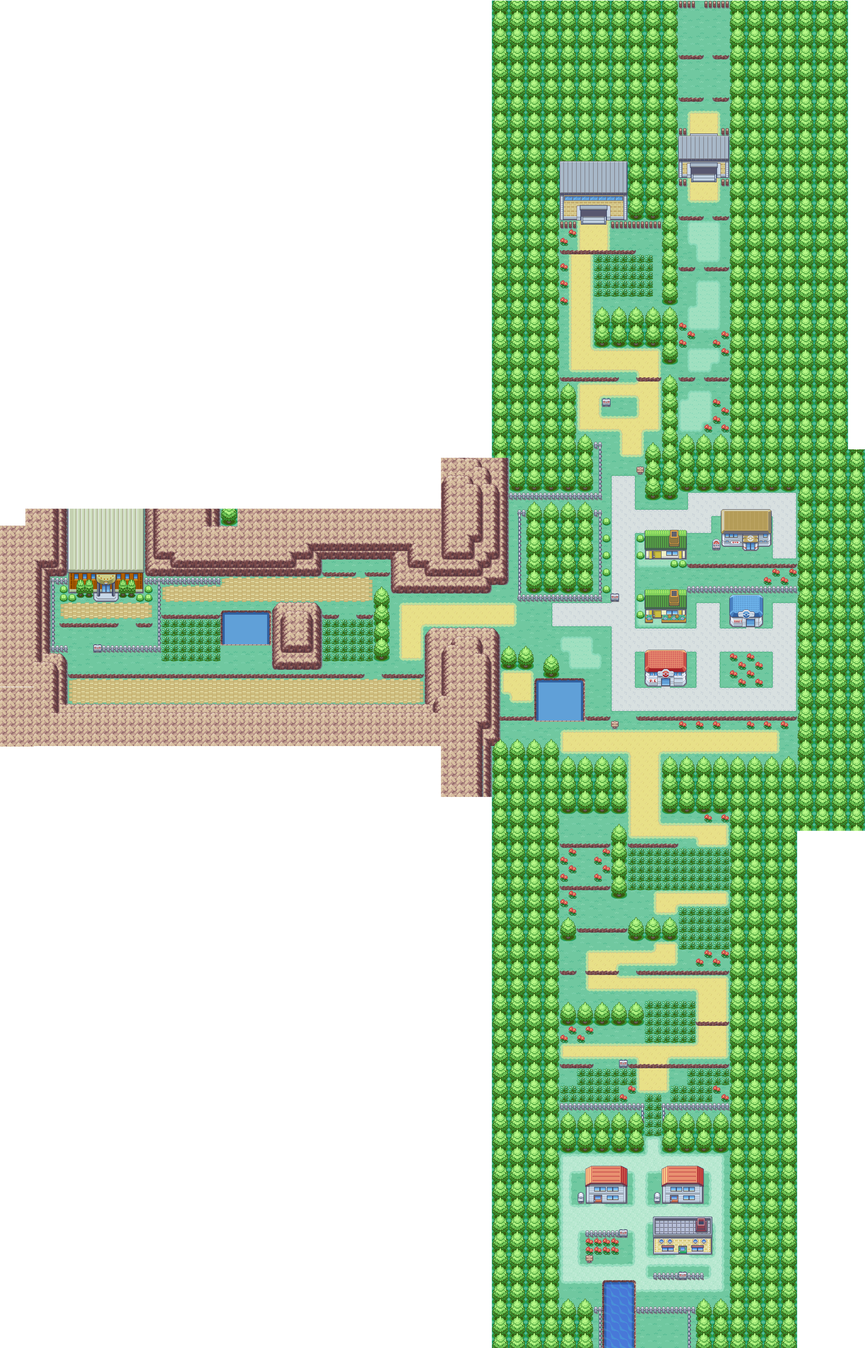
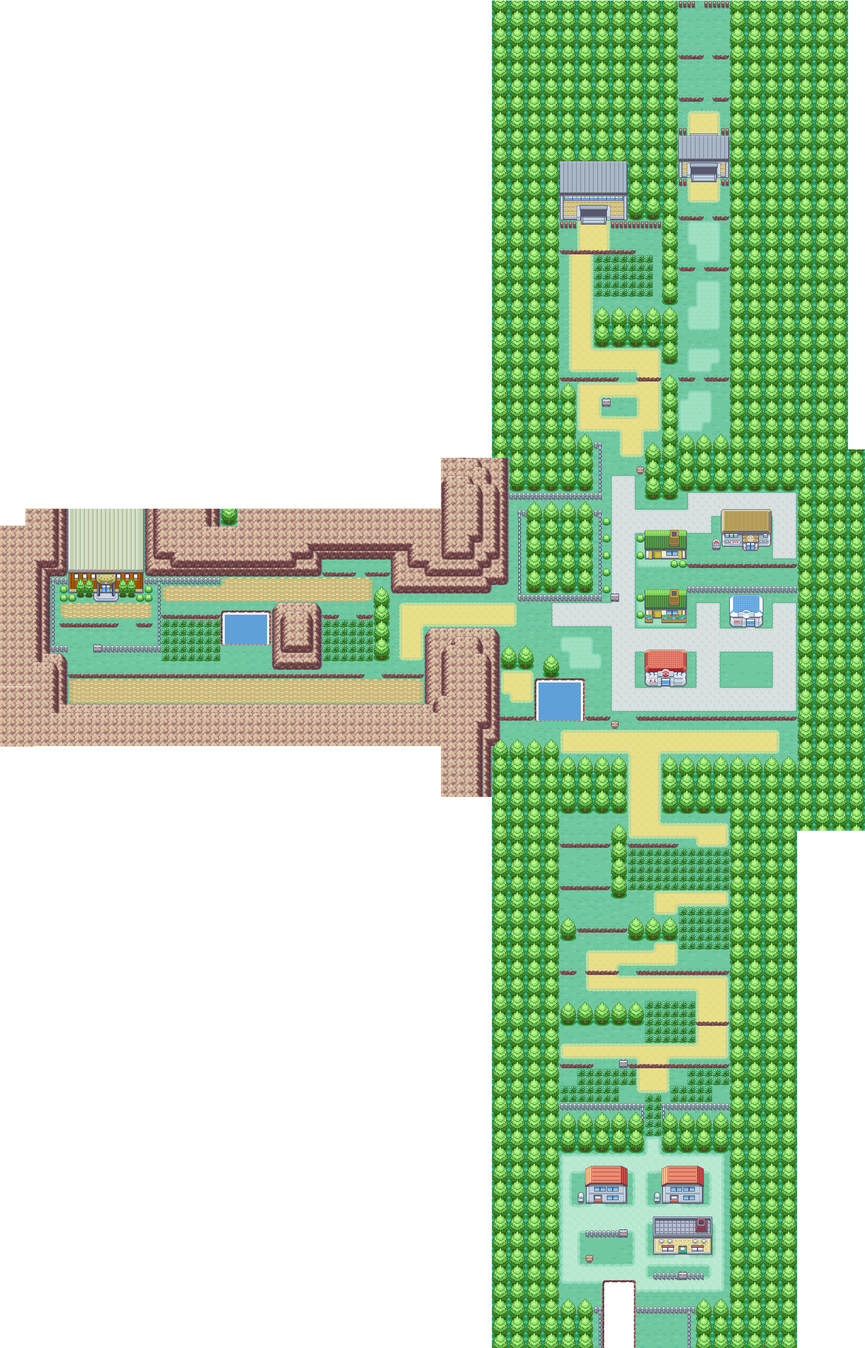
바다 애니메이션 타일 구현

diff --git a/PokemonFireRed/Pokemon/AnimatedSea.cpp b/PokemonFireRed/Pokemon/AnimatedSea.cpp
@@ -1,0 +1,42 @@
+#include "AnimatedSea.h"
+
+bool AnimatedSea::AnimationCreated = false;
+
+AnimatedSea::AnimatedSea() 
+{
+}
+
+AnimatedSea::~AnimatedSea() 
+{
+}
+
+void AnimatedSea::Init(int _Index)
+{
+	UWindowImage* Image = Renderer->GetImage();
+	if (false == AnimationCreated)
+	{
+		for (int i = 0; i < 8; i++)
+		{
+			std::vector<int> Indexs;
+			int Index = i;
+
+			for (int k = 0; k < 8; k++)
+			{
+				Indexs.push_back(Index);
+				Index = (Index + 1) % 8;
+			}
+
+			Renderer->CreateAnimation("AnimatedSea" + std::to_string(i), Image->GetName(), Indexs, 0.2f, true);
+		}
+
+	}
+	Renderer->SetTransform({ FVector::Zero, {Global::FloatTileSize, Global::FloatTileSize} });
+	Renderer->ChangeAnimation("AnimatedSea" + std::to_string(_Index));
+}
+
+void AnimatedSea::BeginPlay()
+{
+	Renderer = CreateImageRenderer(ERenderingOrder::BelowBackground);
+	Renderer->SetImage("AnimatedSea.png");
+}
+

diff --git a/PokemonFireRed/Pokemon/MapLevel.cpp b/PokemonFireRed/Pokemon/MapLevel.cpp
@@ -14,7 +14,7 @@
 #include "DialogueWindow.h"
 #include "MapNameWindow.h"
 #include "AnimatedFlower.h"
-
+#include "AnimatedSea.h"
 
 UMapLevel::UMapLevel()
 {
@@ -142,6 +142,20 @@ void UMapLevel::DrawFlowers(const std::vector<FTileVector>& _Points)
 	{
 		AnimatedFlower* Flower = SpawnActor<AnimatedFlower>();
 		Flower->SetActorLocation(Point.ToFVector());
+	}
+}
+
+void UMapLevel::DrawSeas(const std::vector<FTriple<int, int, int>> _Triples)
+{
+	for (const FTriple<int, int, int>& Triple : _Triples)
+	{
+		int PointX = Triple.first;
+		int PointY = Triple.second;
+		int Index = Triple.third;
+
+		AnimatedSea* Sea = SpawnActor<AnimatedSea>();
+		Sea->SetActorLocation(FTileVector(PointX, PointY).ToFVector());
+		Sea->Init(Index);
 	}
 }
 

diff --git a/PokemonFireRed/Pokemon/AnimatedSea.h b/PokemonFireRed/Pokemon/AnimatedSea.h
@@ -1,0 +1,26 @@
+#pragma once
+#include <EngineCore/Actor.h>
+#include "Global.h"
+
+class AnimatedSea : public AActor
+{
+public:
+	// constructor destructor
+	AnimatedSea();
+	~AnimatedSea();
+
+	// delete Function
+	AnimatedSea(const AnimatedSea& _Other) = delete;
+	AnimatedSea(AnimatedSea&& _Other) noexcept = delete;
+	AnimatedSea& operator=(const AnimatedSea& _Other) = delete;
+	AnimatedSea& operator=(AnimatedSea&& _Other) noexcept = delete;
+
+	void Init(int _Index);
+
+protected:
+	void BeginPlay() override;
+private:
+	UImageRenderer* Renderer = nullptr;
+	static bool AnimationCreated;
+};
+

diff --git a/PokemonFireRed/Pokemon/ExteriorPalletTownLevel.cpp b/PokemonFireRed/Pokemon/ExteriorPalletTownLevel.cpp
@@ -88,4 +88,15 @@ and POKéMON as data via PC.)"
 		{71, 146}, {71, 147},
 		{72, 146}, {72, 147},
 	});
+
+	DrawSeas({
+		{71, 151, 0}, {72, 151, 0}, {73, 151, 0}, {74, 151, 0},
+		{71, 152, 0}, {72, 152, 0}, {73, 152, 0}, {74, 152, 0},
+		{71, 153, 0}, {72, 153, 0}, {73, 153, 0}, {74, 153, 0},
+		{71, 154, 0}, {72, 154, 0}, {73, 154, 0}, {74, 154, 0},
+		{71, 155, 0}, {72, 155, 0}, {73, 155, 0}, {74, 155, 0},
+		{71, 156, 0}, {72, 156, 0}, {73, 156, 0}, {74, 156, 0},
+		{71, 157, 0}, {72, 157, 0}, {73, 157, 0}, {74, 157, 0},
+		{71, 158, 0}, {72, 158, 0}, {73, 158, 0}, {74, 158, 0},
+	});
 }

diff --git a/PokemonFireRed/Pokemon/MapLevel.h b/PokemonFireRed/Pokemon/MapLevel.h
@@ -43,6 +43,7 @@ protected:
 	void LevelStart(ULevel* _PrevLevel) override;
 
 	void DrawFlowers(const std::vector<FTileVector>& _Points);
+	void DrawSeas(const std::vector<FTriple<int, int, int>> _Triples);
 
 private:
 	void LoadCharacterResources();

diff --git a/PokemonFireRed/Pokemon/PokemonMath.h b/PokemonFireRed/Pokemon/PokemonMath.h
@@ -13,6 +13,15 @@ enum class EDirection
 	None
 };
 
+template <typename A, typename B, typename C>
+struct FTriple
+{
+public:
+	A first;
+	B second;
+	C third;
+};
+
 struct FTileVector
 {
 public:

diff --git a/PokemonFireRed/Pokemon/Global.h b/PokemonFireRed/Pokemon/Global.h
@@ -84,6 +84,7 @@ private:
 enum ERenderingOrder
 {
 	None,
+	BelowBackground,
 	Background,
 	BelowCharacter,
 	Lower,
